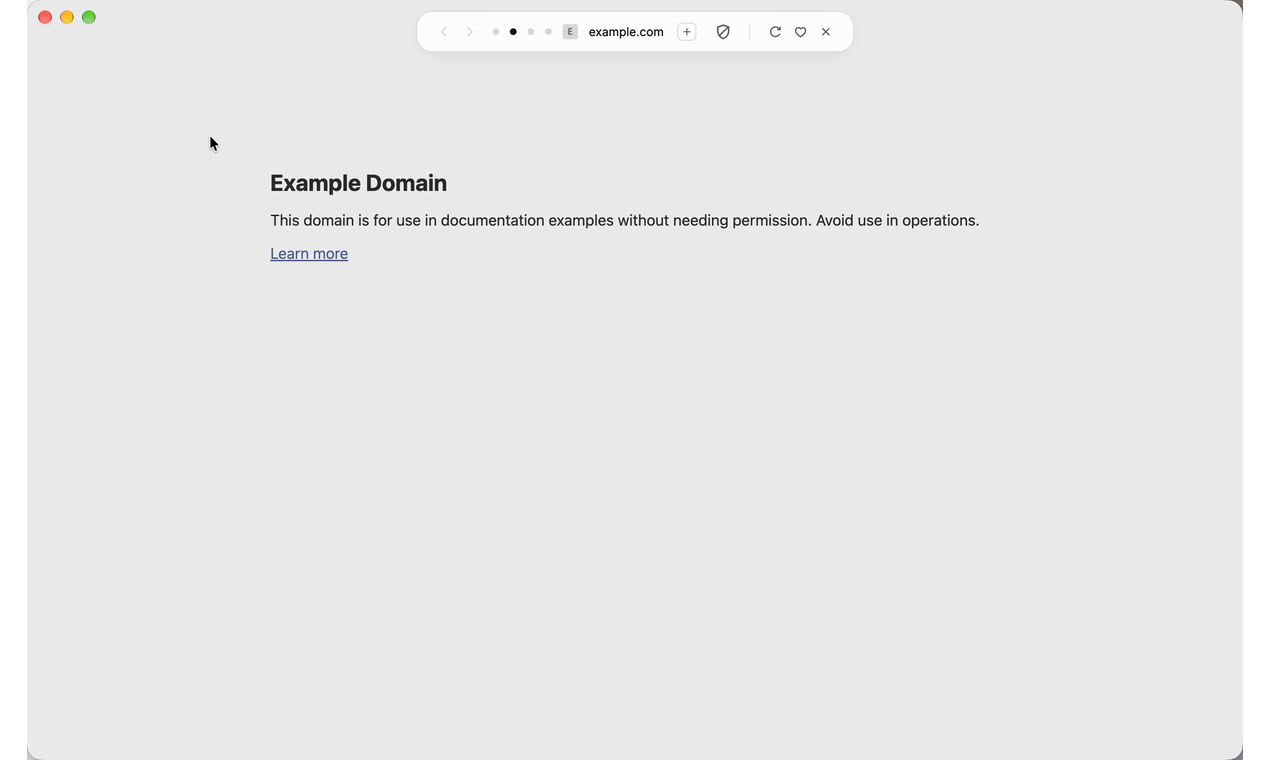
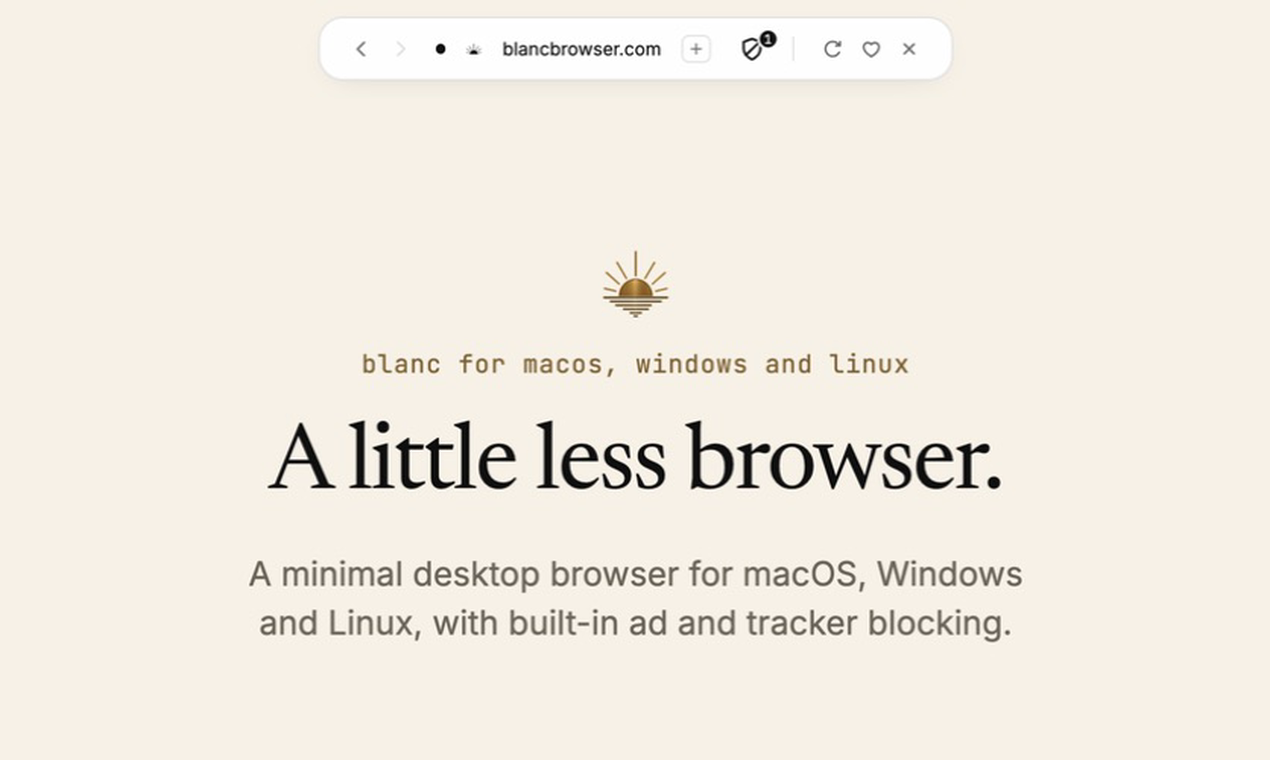
Refresh launch overview and Product Hunt media

diff --git a/test/unit/launch-overview-export.test.js b/test/unit/launch-overview-export.test.js
@@ -1,0 +1,19 @@
+const test = require('node:test');
+const assert = require('node:assert/strict');
+const fs = require('node:fs');
+const path = require('node:path');
+const root = path.resolve(__dirname, '../..');
+
+test('overview has a separate duration gate without relaxing the short demo', () => {
+  const short = fs.readFileSync(path.join(root, 'scripts/export-launch-demo.sh'), 'utf8');
+  const overview = fs.readFileSync(path.join(root, 'scripts/export-launch-overview.sh'), 'utf8');
+  assert.match(short, /seconds >= 18 && seconds <= 24/);
+  assert.match(overview, /seconds >= 40 && seconds <= 44/);
+  assert.match(overview, /scale=1920:1200/);
+  assert.match(overview, /fps=30/);
+  assert.match(overview, /-an -c:v libx264/);
+  assert.match(overview, /-color_primaries bt709 -color_trc bt709 -colorspace bt709/);
+  assert.match(overview, /incomplete source color metadata; do not guess/);
+  assert.match(overview, /review output already exists/);
+  assert.match(overview, /owner approval is required before upload/);
+});

diff --git a/test/unit/launch-media.test.js b/test/unit/launch-media.test.js
@@ -40,6 +40,10 @@ test('Product Hunt media matches the declared dimensions and launch wiring', () 
   }
   assert.match(provenance, new RegExp(`packaged public Blanc v${version.replaceAll('.', '\\.')}`));
   assert.match(provenance, /\.\.\/island-demo\.mp4/);
+  assert.match(copy, /youtube\.com\/watch\?v=xqUFMUcCjT0/);
+  assert.match(provenance, /youtube\.com\/watch\?v=xqUFMUcCjT0/);
+  assert.match(provenance, /youtube-nocookie\.com\/embed\/xqUFMUcCjT0/);
+  assert.match(provenance, /draft remains unscheduled/);
   assert.notDeepEqual(
     fs.readFileSync(path.join(ROOT, PRODUCT_HUNT_DIR, 'island-resting-1270x760.png')),
     fs.readFileSync(path.join(ROOT, PRODUCT_HUNT_DIR, 'quick-switcher-1270x760.png')),

diff --git a/docs/superpowers/plans/assets/launch-copy.md b/docs/superpowers/plans/assets/launch-copy.md
@@ -70,22 +70,41 @@ Canonical URLs—copy exactly:
 | AlternativeTo | https://blancbrowser.com |
 | BetaList | https://blancbrowser.com/?ref=betalist |
 
-Packaged-v1.15.0 launch demo assets:
+Packaged-v1.15.0 launch media:
 
 | Form | URL |
 |---|---|
-| MP4 | https://raw.githubusercontent.com/bnfy/blanc/f6be585924eddfc8858174583f7c38f1ebc1cffb/docs/superpowers/plans/assets/island-demo.mp4 |
-| GIF | https://raw.githubusercontent.com/bnfy/blanc/f6be585924eddfc8858174583f7c38f1ebc1cffb/docs/superpowers/plans/assets/island-demo.gif |
+| Approved launch overview | https://www.youtube.com/watch?v=xqUFMUcCjT0 |
+| Existing short MP4 | https://raw.githubusercontent.com/bnfy/blanc/f6be585924eddfc8858174583f7c38f1ebc1cffb/docs/superpowers/plans/assets/island-demo.mp4 |
+| Existing short GIF | https://raw.githubusercontent.com/bnfy/blanc/f6be585924eddfc8858174583f7c38f1ebc1cffb/docs/superpowers/plans/assets/island-demo.gif |
 
-These files were captured on September 3 from the installed packaged public
+The existing short files were captured on September 3 from the installed packaged public
 v1.15.0 macOS app in an isolated local profile with telemetry and search
 suggestions disabled. The 22-second export is 1920×1200, 30 fps H.264, and
 BT.709; the 960×600 GIF is below 8 MiB. It shows the resting Island, `⌘L`
 expansion, a live `git` Quick Switcher filter, tab-dot switching, The Verge's
-live blocker count and popover, and a final resting hold. The
-MP4 is the source for the required public or unlisted YouTube upload before
-Product Hunt. A raw MP4 URL does not satisfy Product Hunt's gallery-video
-field.
+live blocker count and popover, and a final resting hold. They remain the README
+demo and were not deleted or replaced.
+
+The approved 42-second launch overview was recorded on September 4 from the
+same installed packaged public release in a dedicated local capture profile.
+It uses the live Blanc site and public GitHub repository as backdrops and shows
+the Quick Switcher and slash commands, an explicitly named tab group, Glance
+with Make main, the real one-request blocker count and site controls, real
+Explore/Build Named Workspace switching with a persistent `Patron` label, and
+one legal Mahjong match. It is a 1920×1200, 30 fps H.264 BT.709 export with no
+audio stream and a 42.000-second duration. Captions occupy a reserved lower
+margin; the two Inter secondary lines are 38 px beneath 62 px Newsreader
+captions. Anthony approved that revision on September 4.
+
+The replacement was uploaded as a new unlisted YouTube video with no copyright
+issues, and its embedding was verified both on a referrer-bearing test page and
+inside the unpublished Product Hunt draft. YouTube custom-thumbnail upload is
+unavailable until the channel completes phone verification, so the matching
+homepage-backed poster remains in the owner's local review output; no account
+verification was attempted. The cleanest homepage-backed frame among YouTube's
+three generated choices was selected instead. The former unlisted YouTube video
+remains intact.
 
 ## Show HN — owner writes every public word
 
@@ -383,11 +402,16 @@ Prepared release-backed media:
 - Gallery still 1: `product-hunt/island-resting-1270x760.png`
 - Gallery still 2: `product-hunt/quick-switcher-1270x760.png`
 
-The two stills were exported from the packaged-v1.15.0 launch demo and satisfy
+The two stills were recaptured on September 4 from packaged v1.15.0 over the
+live Blanc homepage, replacing the Example Domain video frames. They satisfy
 the guide's two-image gallery floor. Their exact provenance is in
 `product-hunt/README.md`.
-The full YouTube URL remains owner-supplied and must not be inferred from a raw
-MP4 URL.
+The demo is uploaded as unlisted at
+`https://www.youtube.com/watch?v=xqUFMUcCjT0`; embedded playback was verified in
+the unpublished Product Hunt draft on September 4. Product Hunt resolved the
+player to `youtube-nocookie.com/embed/xqUFMUcCjT0`, displayed the correct title,
+and reported a 42-second duration. The draft is saved at
+`https://www.producthunt.com/products/blanc-3?launch=blanc-3` and is not scheduled.
 
 **Name**
 
@@ -404,9 +428,9 @@ MP4 URL.
 This is more candid than `Free`: core browsing is free, but Named Workspace
 creation is a paid benefit.
 
-**Tagline** — 51 characters
+**Tagline** — 22 characters; owner-confirmed website wording, September 4
 
-> A minimal desktop browser with built-in ad blocking
+> A little less browser.
 
 **Description** — 244 characters, within the current 260-character limit
 
@@ -447,7 +471,7 @@ Use only topics that exist in the live form and genuinely fit.
 
 **Gallery order**
 
-1. Island demo through a verified full YouTube URL.
+1. Approved 42-second launch overview through its verified full YouTube URL.
 2. `product-hunt/island-resting-1270x760.png`.
 3. `product-hunt/quick-switcher-1270x760.png`.
 4. Optional: a packaged-v1.15.0 Named Workspaces capture with a visible

diff --git a/docs/superpowers/plans/assets/product-hunt/README.md b/docs/superpowers/plans/assets/product-hunt/README.md
@@ -5,18 +5,52 @@ no mockup, development-build UI, or behavior from post-release `main`.
 
 - `thumbnail-240x240.png` is a 240×240 Lanczos export of the production
   `site/public/logo.png` mark.
-- `island-resting-1270x760.png` is the 1.5-second frame from
-  `../island-demo.mp4`, scaled proportionally to 760 px high and padded on the
-  white page background to Product Hunt's recommended 1270×760 canvas.
-- `quick-switcher-1270x760.png` is the 6.5-second frame from the same video,
-  after the complete `git` query and results are visible, exported with the
-  same scale and pad.
+- `island-resting-1270x760.png` is a September 4 native screenshot of the
+  installed public v1.15.0 app displaying the live `https://blancbrowser.com/`
+  homepage, including the current “A little less browser.” headline.
+- `quick-switcher-1270x760.png` shows the same page behind the real Quick
+  Switcher, with `blancbrowser.com/features` and two public-site history results.
 
-The source demo was captured on September 3, 2026 from the installed packaged
-public v1.15.0 macOS app in an isolated local profile with telemetry and search
-suggestions disabled. Its full provenance and verification are recorded in
-`../launch-copy.md` and
-`../../2026-08-20-growth-counter-offensive.md`.
+The September 4 stills replace the Example Domain video-frame exports at the
+owner's request. They were captured in a separate window, with webpage zoom
+increased for legibility, then cropped to the central 836×500 region of the
+1229×768 native capture and scaled with Lanczos to 1270×760. The crop excludes
+the operating-system capture indicator, pointer and lower website demo; no
+product controls, website text or colors were composited or altered. The
+Quick Switcher's dimmed page is the real app scrim. Only public website results
+are visible; no other tabs or remote-device identifiers appear. Page zoom was
+restored after capture. The app mark thumbnail and both gallery stills remained
+unchanged when the launch video was replaced.
+
+Both replacement stills were uploaded to the unpublished Product Hunt draft
+at `https://www.producthunt.com/products/blanc-3?launch=blanc-3` on September 4.
+
+The approved launch video is the unlisted 42-second overview at
+`https://www.youtube.com/watch?v=xqUFMUcCjT0`. It was recorded on September 4
+from installed packaged public v1.15.0 in a dedicated capture profile, using
+only the live Blanc site and public GitHub pages. It demonstrates real Quick
+Switcher and slash-command use, tab-group assignment and folding, Glance Make
+main, the real one-request blocker count and site controls, Explore/Build Named
+Workspace switching with `Named Workspaces · Patron` visible, and one legal
+Mahjong match. The final 1920×1200, 30 fps H.264 BT.709 file is exactly 42.000
+seconds and has no audio stream. Anthony approved the revision with 38 px Inter
+secondary labels on September 4.
+
+YouTube reported no copyright issues and published the replacement as
+unlisted. Product Hunt saved only the video-field change; its draft player
+resolved to `youtube-nocookie.com/embed/xqUFMUcCjT0`, showed the correct title,
+and reported 42 seconds. The draft remains unscheduled. YouTube requires phone
+verification before this channel can upload the matching custom poster, so no
+verification or credential flow was attempted. The cleanest homepage-backed
+frame among YouTube's three generated choices was selected instead; the exact
+matching poster is retained in the owner's local review output.
+
+The existing [22-second source demo](../island-demo.mp4) was captured on
+September 3, 2026 from the installed packaged public v1.15.0 macOS app in an
+isolated local profile with telemetry and search suggestions disabled. It
+remains the repository README demo. The former unlisted YouTube video was not
+deleted. Full provenance and verification are recorded in `../launch-copy.md`
+and `../../2026-08-20-growth-counter-offensive.md`.
 
 Before uploading, verify the files rather than trusting filenames:
 
